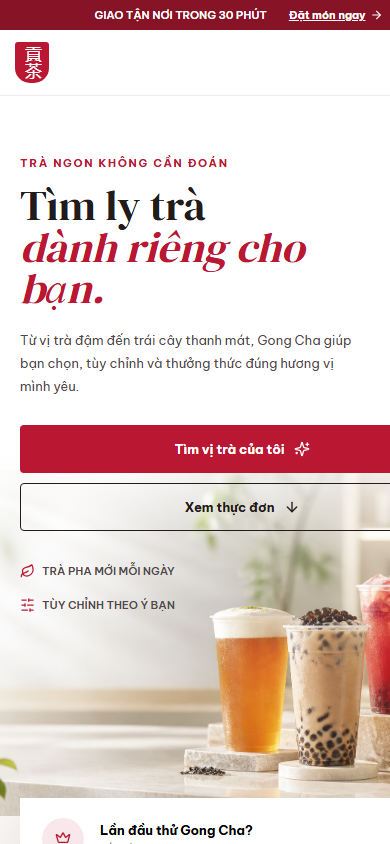
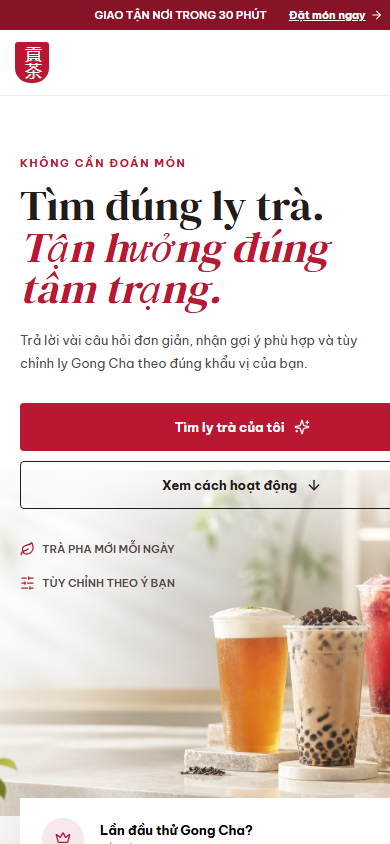
Apply StoryBrand framework to homepage

Changed region(s): [[0.0308, 0.4005, 1.0, 0.6161], [0.0615, 0.1848, 0.8615, 0.3697], [0.0308, 0.6161, 0.4615, 0.7393]]

diff --git a/index.html b/index.html
@@ -8,7 +8,7 @@
   <link rel="preconnect" href="https://fonts.googleapis.com">
   <link rel="preconnect" href="https://fonts.gstatic.com" crossorigin>
   <link href="https://fonts.googleapis.com/css2?family=Be+Vietnam+Pro:wght@400;500;600;700&family=DM+Serif+Display&display=swap" rel="stylesheet">
-  <link rel="stylesheet" href="styles.css?v=2">
+  <link rel="stylesheet" href="styles.css?v=3">
 </head>
 <body>
   <div class="announcement">
@@ -44,12 +44,12 @@
       <img src="assets/hero-tea-lineup.png" alt="Bốn ly trà tươi với nhiều hương vị" class="hero-image">
       <div class="hero-overlay"></div>
       <div class="hero-copy">
-        <p class="eyebrow">TRÀ NGON KHÔNG CẦN ĐOÁN</p>
-        <h1>Tìm ly trà<br><em>dành riêng cho bạn.</em></h1>
-        <p class="hero-description">Từ vị trà đậm đến trái cây thanh mát, Gong Cha giúp bạn chọn, tùy chỉnh và thưởng thức đúng hương vị mình yêu.</p>
+        <p class="eyebrow">KHÔNG CẦN ĐOÁN MÓN</p>
+        <h1>Tìm đúng ly trà.<br><em>Tận hưởng đúng tâm trạng.</em></h1>
+        <p class="hero-description">Trả lời vài câu hỏi đơn giản, nhận gợi ý phù hợp và tùy chỉnh ly Gong Cha theo đúng khẩu vị của bạn.</p>
         <div class="hero-actions">
-          <button class="primary" type="button" data-scroll="#finder">Tìm vị trà của tôi <i data-lucide="sparkles"></i></button>
-          <button class="secondary" type="button" data-scroll="#menu">Xem thực đơn <i data-lucide="arrow-down"></i></button>
+          <button class="primary" type="button" data-scroll="#finder">Tìm ly trà của tôi <i data-lucide="sparkles"></i></button>
+          <button class="secondary" type="button" data-scroll="#story-plan">Xem cách hoạt động <i data-lucide="arrow-down"></i></button>
         </div>
         <div class="hero-proof" aria-label="Cam ket cua Gong Cha">
           <span><i data-lucide="leaf"></i> Trà pha mới mỗi ngày</span>
@@ -74,6 +74,63 @@
         <span><strong>Muốn vị béo ngọt?</strong><small>Chọn trà sữa yêu thích</small></span>
         <i data-lucide="chevron-right"></i>
       </button>
+    </section>
+
+    <section class="story-problem section-pad">
+      <div class="story-problem-copy">
+        <p class="eyebrow">BẠN ĐÃ TỪNG ĐỨNG TRƯỚC MENU VÀ KHÔNG BIẾT CHỌN GÌ?</p>
+        <h2>Một ly trà đáng lẽ phải khiến bạn vui, không phải khiến bạn bối rối.</h2>
+        <p>Giữa hàng chục thức uống, mức đường, lượng đá và topping, thật dễ mất thời gian rồi vẫn chọn một món không đúng khẩu vị.</p>
+        <button class="text-cta" type="button" data-scroll="#finder">Để Gong Cha giúp bạn chọn <i data-lucide="arrow-right"></i></button>
+      </div>
+      <div class="problem-list">
+        <article>
+          <span>VẤN ĐỀ BÊN NGOÀI</span>
+          <i data-lucide="list-filter"></i>
+          <h3>Quá nhiều lựa chọn</h3>
+          <p>Menu dài nhưng thiếu thông tin giúp bạn so sánh và quyết định nhanh.</p>
+        </article>
+        <article>
+          <span>CẢM GIÁC BÊN TRONG</span>
+          <i data-lucide="circle-help"></i>
+          <h3>Sợ chọn sai vị</h3>
+          <p>Bạn không muốn trả tiền cho một ly quá ngọt, quá nhạt hoặc không hợp tâm trạng.</p>
+        </article>
+        <article>
+          <span>ĐIỀU KHÔNG NÊN XẢY RA</span>
+          <i data-lucide="heart-off"></i>
+          <h3>Trà ngon không nên khó chọn</h3>
+          <p>Bất kỳ ai cũng xứng đáng tìm được một ly trà phù hợp mà không cần là chuyên gia.</p>
+        </article>
+      </div>
+    </section>
+
+    <section class="story-guide">
+      <div class="guide-statement">
+        <p class="eyebrow light">GONG CHA LÀ NGƯỜI HƯỚNG DẪN</p>
+        <h2>Bạn hiểu khẩu vị của mình.<br>Chúng tôi hiểu trà.</h2>
+        <p>Gong Cha kết hợp điều bạn đang muốn với kiến thức về nền trà, độ ngọt và topping để giúp bạn tìm được lựa chọn phù hợp.</p>
+        <button class="secondary light-button" type="button" data-scroll="#finder">Nhận gợi ý cho tôi <i data-lucide="arrow-right"></i></button>
+      </div>
+      <div class="guide-proof">
+        <article><i data-lucide="ear"></i><strong>Chúng tôi lắng nghe</strong><p>Bắt đầu từ tâm trạng và khẩu vị của bạn, không bắt đầu từ sản phẩm.</p></article>
+        <article><i data-lucide="leaf"></i><strong>Chúng tôi am hiểu trà</strong><p>Mỗi gợi ý cân bằng giữa nền trà, hương vị và cách tùy chỉnh.</p></article>
+        <article><i data-lucide="sliders-horizontal"></i><strong>Bạn luôn quyết định</strong><p>Điều chỉnh đường, đá và topping để ly trà thực sự thuộc về bạn.</p></article>
+      </div>
+    </section>
+
+    <section class="story-plan section-pad" id="story-plan">
+      <div class="section-heading">
+        <p class="eyebrow">KẾ HOẠCH ĐƠN GIẢN</p>
+        <h2>Ba bước để có ly trà đúng vị.</h2>
+        <p>Không cần đọc hết menu. Chỉ cần bắt đầu từ điều bạn đang muốn.</p>
+      </div>
+      <div class="story-plan-grid">
+        <article><span>01</span><i data-lucide="smile"></i><h3>Chọn tâm trạng</h3><p>Cho chúng tôi biết hôm nay bạn muốn thanh mát, béo ngọt, đậm trà hay một trải nghiệm mới.</p></article>
+        <article><span>02</span><i data-lucide="sparkles"></i><h3>Nhận gợi ý</h3><p>Tea Finder chọn một thức uống phù hợp và giải thích rõ hương vị cho bạn.</p></article>
+        <article><span>03</span><i data-lucide="cup-soda"></i><h3>Tùy chỉnh và đặt</h3><p>Chọn size, đường, đá, topping rồi nhận ly trà đúng theo cách bạn muốn.</p></article>
+      </div>
+      <button class="primary plan-cta" type="button" data-scroll="#finder">Bắt đầu tìm ly trà <i data-lucide="arrow-right"></i></button>
     </section>
 
     <section class="finder section-pad" id="finder">
@@ -126,6 +183,27 @@
           <span class="cup-ice"></span>
           <span class="cup-pearl"></span>
         </div>
+      </div>
+    </section>
+
+    <section class="story-outcome">
+      <div class="outcome-before">
+        <p class="eyebrow light">NẾU TIẾP TỤC ĐOÁN MÓN</p>
+        <h2>Mất thời gian.<br>Dễ thất vọng.</h2>
+        <ul>
+          <li><i data-lucide="x"></i> Đọc một menu dài nhưng vẫn không biết chọn gì</li>
+          <li><i data-lucide="x"></i> Nhận một ly quá ngọt hoặc không hợp khẩu vị</li>
+          <li><i data-lucide="x"></i> Quay lại món quen vì ngại thử điều mới</li>
+        </ul>
+      </div>
+      <div class="outcome-after">
+        <p class="eyebrow">KHI GONG CHA GIÚP BẠN CHỌN</p>
+        <h2>Tự tin lựa chọn.<br>Thưởng thức trọn vẹn.</h2>
+        <ul>
+          <li><i data-lucide="check"></i> Tìm thấy món phù hợp chỉ trong vài bước</li>
+          <li><i data-lucide="check"></i> Hiểu rõ hương vị và giá trước khi đặt</li>
+          <li><i data-lucide="check"></i> Khám phá món mới mà vẫn đúng khẩu vị</li>
+        </ul>
       </div>
     </section>
 
@@ -190,6 +268,18 @@
           <strong>Gong Cha Nguyen Hue</strong>
           <small>0.8 km · Mở cửa đến 22:30</small>
         </div>
+      </div>
+    </section>
+
+    <section class="story-final-cta">
+      <div>
+        <p class="eyebrow light">LY TRÀ ĐÚNG VỊ ĐANG CHỜ BẠN</p>
+        <h2>Đừng đoán món.<br>Hãy tìm ly trà của bạn.</h2>
+        <p>Chỉ mất vài bước để Gong Cha hiểu điều bạn muốn và gợi ý lựa chọn phù hợp.</p>
+      </div>
+      <div>
+        <button class="primary" type="button" data-scroll="#finder">Tìm ly trà của tôi <i data-lucide="sparkles"></i></button>
+        <a class="secondary light-button" href="menu.html">Xem toàn bộ thực đơn <i data-lucide="arrow-right"></i></a>
       </div>
     </section>
   </main>

diff --git a/styles.css b/styles.css
@@ -437,6 +437,52 @@ legend { margin-bottom: 13px; font-size: 11px; font-weight: 700; }
 .cart-footer > div { margin-bottom: 15px; display: flex; justify-content: space-between; font-size: 12px; }
 .cart-footer .primary { width: 100%; }
 
+/* StoryBrand homepage journey */
+.story-problem { display: grid; grid-template-columns: .8fr 1.2fr; gap: clamp(45px, 8vw, 125px); align-items: center; background: var(--white); }
+.story-problem-copy h2, .story-guide h2, .story-outcome h2, .story-final-cta h2 { margin-bottom: 16px; font-size: clamp(39px, 4.4vw, 66px); line-height: 1.04; }
+.story-problem-copy > p:not(.eyebrow) { max-width: 540px; color: var(--muted); font-size: 13px; line-height: 1.85; }
+.text-cta { padding: 0 0 7px; border: 0; border-bottom: 1px solid var(--red); display: inline-flex; align-items: center; gap: 8px; color: var(--red); background: transparent; font-size: 10px; font-weight: 700; text-transform: uppercase; }
+.text-cta svg { width: 14px; }
+.problem-list { border-top: 1px solid var(--line); }
+.problem-list article { min-height: 135px; padding: 24px 0; border-bottom: 1px solid var(--line); display: grid; grid-template-columns: 130px 38px 1fr; column-gap: 18px; align-items: start; }
+.problem-list article > span { color: var(--red); font-size: 7px; font-weight: 700; letter-spacing: 1px; line-height: 1.5; }
+.problem-list article > svg { width: 21px; color: var(--red); }
+.problem-list h3 { margin: 0 0 8px; font-size: 13px; }
+.problem-list p { grid-column: 3; margin: 0; color: var(--muted); font-size: 9px; line-height: 1.75; }
+.story-guide { min-height: 570px; display: grid; grid-template-columns: 1fr 1fr; color: var(--white); background: #281e20; }
+.guide-statement { padding: clamp(65px, 9vw, 145px); display: flex; flex-direction: column; align-items: flex-start; justify-content: center; }
+.guide-statement > p:not(.eyebrow) { max-width: 560px; color: rgba(255,255,255,.66); font-size: 12px; line-height: 1.85; }
+.guide-proof { display: grid; grid-template-columns: 1fr; border-left: 1px solid rgba(255,255,255,.12); }
+.guide-proof article { padding: 35px clamp(30px, 6vw, 90px); border-bottom: 1px solid rgba(255,255,255,.12); display: grid; grid-template-columns: 45px 1fr; gap: 0 18px; align-content: center; }
+.guide-proof article:last-child { border-bottom: 0; }
+.guide-proof svg { width: 23px; color: #efabb6; }
+.guide-proof strong { font-size: 13px; }
+.guide-proof p { grid-column: 2; margin: 8px 0 0; color: rgba(255,255,255,.55); font-size: 9px; line-height: 1.75; }
+.story-plan { text-align: center; background: var(--paper); }
+.story-plan-grid { max-width: 1120px; margin: 0 auto 34px; display: grid; grid-template-columns: repeat(3, 1fr); border: 1px solid var(--line); text-align: left; }
+.story-plan-grid article { min-height: 285px; padding: 30px; position: relative; border-right: 1px solid var(--line); background: var(--white); }
+.story-plan-grid article:last-child { border-right: 0; }
+.story-plan-grid article > span { position: absolute; top: 18px; right: 20px; color: #cfc5c2; font-family: "DM Serif Display", serif; font-size: 20px; }
+.story-plan-grid svg { width: 28px; height: 28px; margin: 42px 0 28px; color: var(--red); }
+.story-plan-grid h3 { margin-bottom: 10px; font-family: "DM Serif Display", serif; font-size: 25px; font-weight: 400; }
+.story-plan-grid p { color: var(--muted); font-size: 9px; line-height: 1.8; }
+.plan-cta { margin: auto; }
+.story-outcome { display: grid; grid-template-columns: 1fr 1fr; }
+.story-outcome > div { min-height: 500px; padding: clamp(60px, 8vw, 125px); display: flex; flex-direction: column; justify-content: center; }
+.outcome-before { color: var(--white); background: #4b373a; }
+.outcome-after { background: #eef1e9; }
+.story-outcome ul { margin: 15px 0 0; padding: 0; list-style: none; }
+.story-outcome li { padding: 12px 0; border-bottom: 1px solid rgba(255,255,255,.14); display: flex; align-items: center; gap: 11px; font-size: 10px; }
+.outcome-after li { border-color: #d9ded2; }
+.story-outcome li svg { width: 15px; color: #efabb6; }
+.outcome-after li svg { color: var(--green); }
+.story-final-cta { padding: 80px clamp(20px, 9vw, 145px); display: flex; align-items: center; justify-content: space-between; gap: 50px; color: var(--white); background: var(--red-dark); }
+.story-final-cta h2 { margin-bottom: 12px; }
+.story-final-cta p:not(.eyebrow) { max-width: 620px; margin-bottom: 0; color: rgba(255,255,255,.66); font-size: 11px; line-height: 1.75; }
+.story-final-cta > div:last-child { display: flex; flex-wrap: wrap; gap: 10px; flex: 0 0 auto; }
+.story-final-cta .primary { background: var(--white); color: var(--red-dark); }
+.story-final-cta .primary:hover { background: #f8edef; }
+
 @media (max-width: 1050px) {
   .desktop-nav { display: none; }
   .menu-toggle { display: grid; }
@@ -446,6 +492,10 @@ legend { margin-bottom: 13px; font-size: 11px; font-weight: 700; }
   .stores { grid-template-columns: 1fr 1fr; }
   footer { grid-template-columns: 1fr auto; }
   footer p, footer small { display: none; }
+  .story-problem { grid-template-columns: 1fr; }
+  .story-guide { grid-template-columns: 1fr 1fr; }
+  .story-plan-grid { grid-template-columns: 1fr 1fr 1fr; }
+  .story-final-cta { align-items: flex-start; flex-direction: column; }
 }
 
 @media (max-width: 760px) {
@@ -493,6 +543,24 @@ legend { margin-bottom: 13px; font-size: 11px; font-weight: 700; }
   footer { padding: 35px 20px; grid-template-columns: 1fr; }
   footer div { flex-wrap: wrap; }
   .customizer, .cart-drawer { padding: 20px; }
+  .story-problem { grid-template-columns: 1fr; }
+  .problem-list article { grid-template-columns: 1fr 34px; }
+  .problem-list article > span { grid-column: 1; margin-bottom: 13px; }
+  .problem-list article > svg { grid-column: 2; grid-row: 1 / span 2; }
+  .problem-list h3 { grid-column: 1; }
+  .problem-list p { grid-column: 1 / -1; }
+  .story-guide { grid-template-columns: 1fr; }
+  .guide-statement { padding: 70px 20px; }
+  .guide-proof { border-left: 0; border-top: 1px solid rgba(255,255,255,.12); }
+  .guide-proof article { padding: 30px 20px; }
+  .story-plan-grid { grid-template-columns: 1fr; }
+  .story-plan-grid article { min-height: 245px; border-right: 0; border-bottom: 1px solid var(--line); }
+  .story-plan-grid article:last-child { border-bottom: 0; }
+  .story-outcome { grid-template-columns: 1fr; }
+  .story-outcome > div { min-height: 430px; padding: 65px 20px; }
+  .story-final-cta { padding: 65px 20px; align-items: stretch; flex-direction: column; }
+  .story-final-cta > div:last-child { flex-direction: column; }
+  .story-final-cta > div:last-child > * { width: 100%; }
 }
 
 @media (max-width: 420px) {
